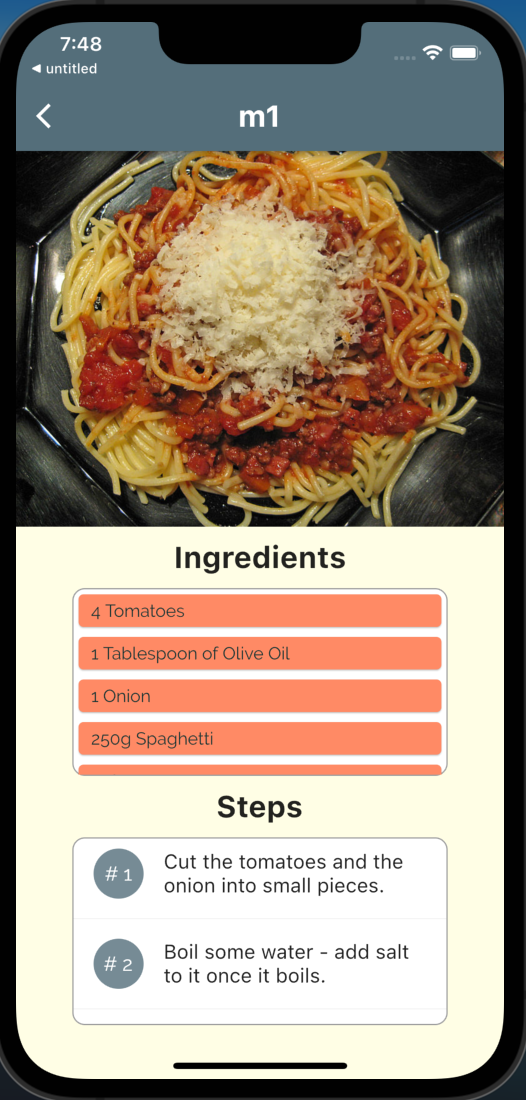
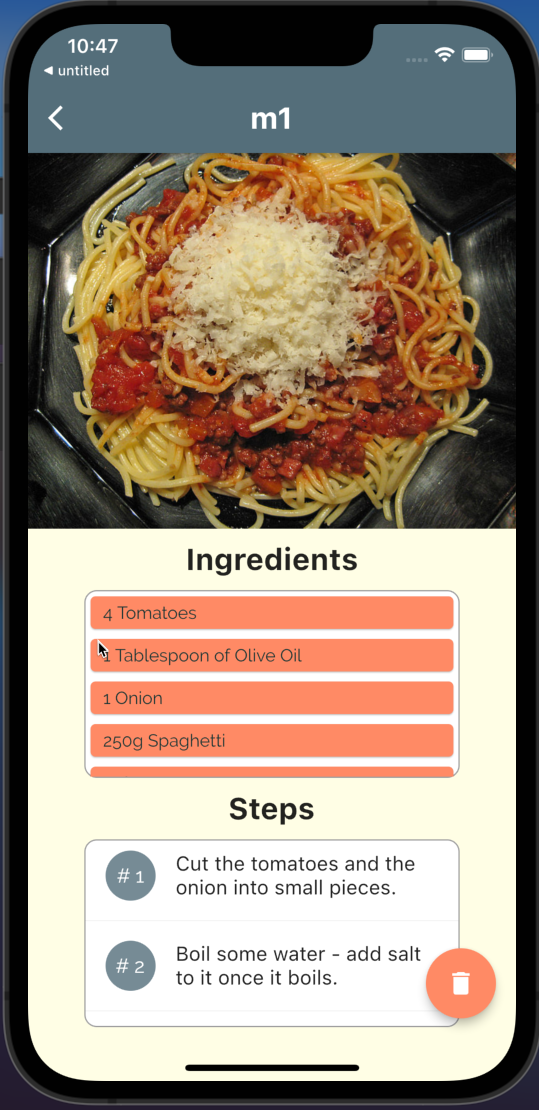
Added filter screen

diff --git a/lib/screens/filter_screen.dart b/lib/screens/filter_screen.dart
@@ -1,21 +1,80 @@
 import 'package:flutter/material.dart';
 import 'package:flutter_deli_meals/widgets/main_drawer.dart';
 
-class FilterScreen extends StatelessWidget {
+class FilterScreen extends StatefulWidget {
   static const routeName = '/filter-screen';
+
+  @override
+  State<FilterScreen> createState() => _FilterScreenState();
+}
+
+class _FilterScreenState extends State<FilterScreen> {
+  var _glutenFree = false;
+  var _vegetarian = false;
+  var _vegan = false;
+  var _lactoseFree = false;
 
   @override
   Widget build(BuildContext context) {
     return // Probably need SafeArea()
         Scaffold(
-      appBar: AppBar(
-        title: const Text('Your Filters'),
-        // backgroundColor: Colors.white,
-      ),
-      drawer: MainDrawer(),
-      body: Center(
-        child: Text('Filters'),
-      ),
+            appBar: AppBar(
+              title: const Text('Your Filters'),
+              // backgroundColor: Colors.white,
+            ),
+            drawer: MainDrawer(),
+            body: Column(
+              children: [
+                Container(
+                  padding: EdgeInsets.all(20),
+                  child: Text(
+                    'Adjust your meal selection.',
+                    style: Theme.of(context).textTheme.headline6,
+                  ),
+                ),
+                Expanded(
+                  child: ListView(
+                    children: [
+                      _buildSwitchListTile(
+                          _glutenFree, 'Gluten-free', 'Only gluten-free meals.',
+                          (newValue) {
+                        setState(() {
+                          _glutenFree = newValue;
+                        });
+                      }),
+                      _buildSwitchListTile(_lactoseFree, 'Lactose-free',
+                          'Only lactose-free meals.', (newValue) {
+                        setState(() {
+                          _lactoseFree = newValue;
+                        });
+                      }),
+                      _buildSwitchListTile(
+                          _vegetarian, 'Vegetarian', 'Only Vegetarian meals.',
+                          (newValue) {
+                        setState(() {
+                          _vegetarian = newValue;
+                        });
+                      }),
+                      _buildSwitchListTile(_vegan, 'Vegan', 'Only vegan meals.',
+                          (newValue) {
+                        setState(() {
+                          _vegan = newValue;
+                        });
+                      }),
+                    ],
+                  ),
+                )
+              ],
+            ));
+  }
+
+  SwitchListTile _buildSwitchListTile(
+      bool flag, String title, String subtitle, ValueChanged<bool> handler) {
+    return SwitchListTile(
+      value: flag,
+      title: Text(title),
+      subtitle: Text(subtitle),
+      onChanged: handler,
     );
   }
 }

diff --git a/lib/screens/category_meals_screen.dart b/lib/screens/category_meals_screen.dart
@@ -4,20 +4,42 @@ import 'package:flutter_deli_meals/widgets/meal_item.dart';
 
 import '../models/meal.dart';
 
-class CategoryMealsScreen extends StatelessWidget {
+class CategoryMealsScreen extends StatefulWidget {
   static const String routeName = '/category-meals';
 
   @override
+  State<CategoryMealsScreen> createState() => _CategoryMealsScreenState();
+}
+
+class _CategoryMealsScreenState extends State<CategoryMealsScreen> {
+  late final List<Meal> displayedMeals;
+  late final String? categoryTitle;
+  var _loadedInitData = false;
+
+  @override
+  void didChangeDependencies() {
+    if (!_loadedInitData) {
+      final routeArgs =
+          ModalRoute.of(context)!.settings.arguments as Map<String, String>;
+      final categoryId = routeArgs['id'];
+      categoryTitle = routeArgs['title'];
+
+      displayedMeals = DUMMY_MEALS
+          .where((meal) => meal.categories.contains(categoryId))
+          .toList();
+    }
+    _loadedInitData = true;
+    super.didChangeDependencies();
+  }
+
+  void _removeMeal(String mealId) {
+    setState(() {
+      displayedMeals.removeWhere((meal) => meal.id == mealId);
+    });
+  }
+
+  @override
   Widget build(BuildContext context) {
-    final routeArgs =
-        ModalRoute.of(context)!.settings.arguments as Map<String, String>;
-    final categoryId = routeArgs['id'];
-    final categoryTitle = routeArgs['title'];
-
-    final List<Meal> categoryMeals = DUMMY_MEALS
-        .where((meal) => meal.categories.contains(categoryId))
-        .toList();
-
     return SafeArea(
       child: Scaffold(
         appBar: AppBar(
@@ -26,16 +48,18 @@ class CategoryMealsScreen extends StatelessWidget {
         body: // DON'T FORGET TO SPECIFY THE itemCount!!!!
             ListView.builder(
           itemBuilder: (context, index) {
-            final Meal categoryMeal = categoryMeals[index];
+            final Meal categoryMeal = displayedMeals[index];
             return MealItem(
-                id: categoryMeal.id,
-                title: categoryMeal.title,
-                imageUrl: categoryMeal.imageUrl,
-                duration: categoryMeal.duration,
-                complexity: categoryMeal.complexity,
-                affordability: categoryMeal.affordability);
+              id: categoryMeal.id,
+              title: categoryMeal.title,
+              imageUrl: categoryMeal.imageUrl,
+              duration: categoryMeal.duration,
+              complexity: categoryMeal.complexity,
+              affordability: categoryMeal.affordability,
+              removeItemHandler: _removeMeal,
+            );
           },
-          itemCount: categoryMeals.length,
+          itemCount: displayedMeals.length,
         ),
       ),
     );

diff --git a/lib/screens/meal_detail_screen.dart b/lib/screens/meal_detail_screen.dart
@@ -60,22 +60,30 @@ class MealDetailScreen extends StatelessWidget {
               itemCount: selectedMeal.ingredients.length,
             )),
             buildSectionTitle(context, 'Steps'),
-            buildContainer(ListView.builder(
-              itemBuilder: (ctx, index) => Column(
-                children: [
-                  ListTile(
-                    leading: CircleAvatar(
-                      child: Text('# ${(index + 1)}'),
+            buildContainer(
+              ListView.builder(
+                itemBuilder: (ctx, index) => Column(
+                  children: [
+                    ListTile(
+                      leading: CircleAvatar(
+                        child: Text('# ${(index + 1)}'),
+                      ),
+                      title: Text(selectedMeal.steps[index]),
                     ),
-                    title: Text(selectedMeal.steps[index]),
-                  ),
-                  Divider(),
-                ],
+                    Divider(),
+                  ],
+                ),
+                itemCount: selectedMeal.steps.length,
               ),
-              itemCount: selectedMeal.steps.length,
-            )),
+            ),
           ],
         ),
+      ),
+      floatingActionButton: FloatingActionButton(
+        child: Icon(Icons.delete, color: Colors.white),
+        onPressed: () {
+          Navigator.of(context).pop(mealId);
+        },
       ),
     );
   }

diff --git a/lib/widgets/meal_item.dart b/lib/widgets/meal_item.dart
@@ -10,6 +10,7 @@ class MealItem extends StatelessWidget {
   final int duration;
   final Complexity complexity;
   final Affordability affordability;
+  final Function removeItemHandler;
 
   const MealItem(
       {required this.id,
@@ -17,10 +18,17 @@ class MealItem extends StatelessWidget {
       required this.imageUrl,
       required this.duration,
       required this.complexity,
-      required this.affordability});
+      required this.affordability,
+      required this.removeItemHandler});
 
   void selectMeal(BuildContext context) {
-    Navigator.of(context).pushNamed(MealDetailScreen.routeName, arguments: id);
+    Navigator.of(context)
+        .pushNamed(MealDetailScreen.routeName, arguments: id)
+        .then((value) {
+      if (value != null) {
+        removeItemHandler(value);
+      }
+    });
   }
 
   @override
